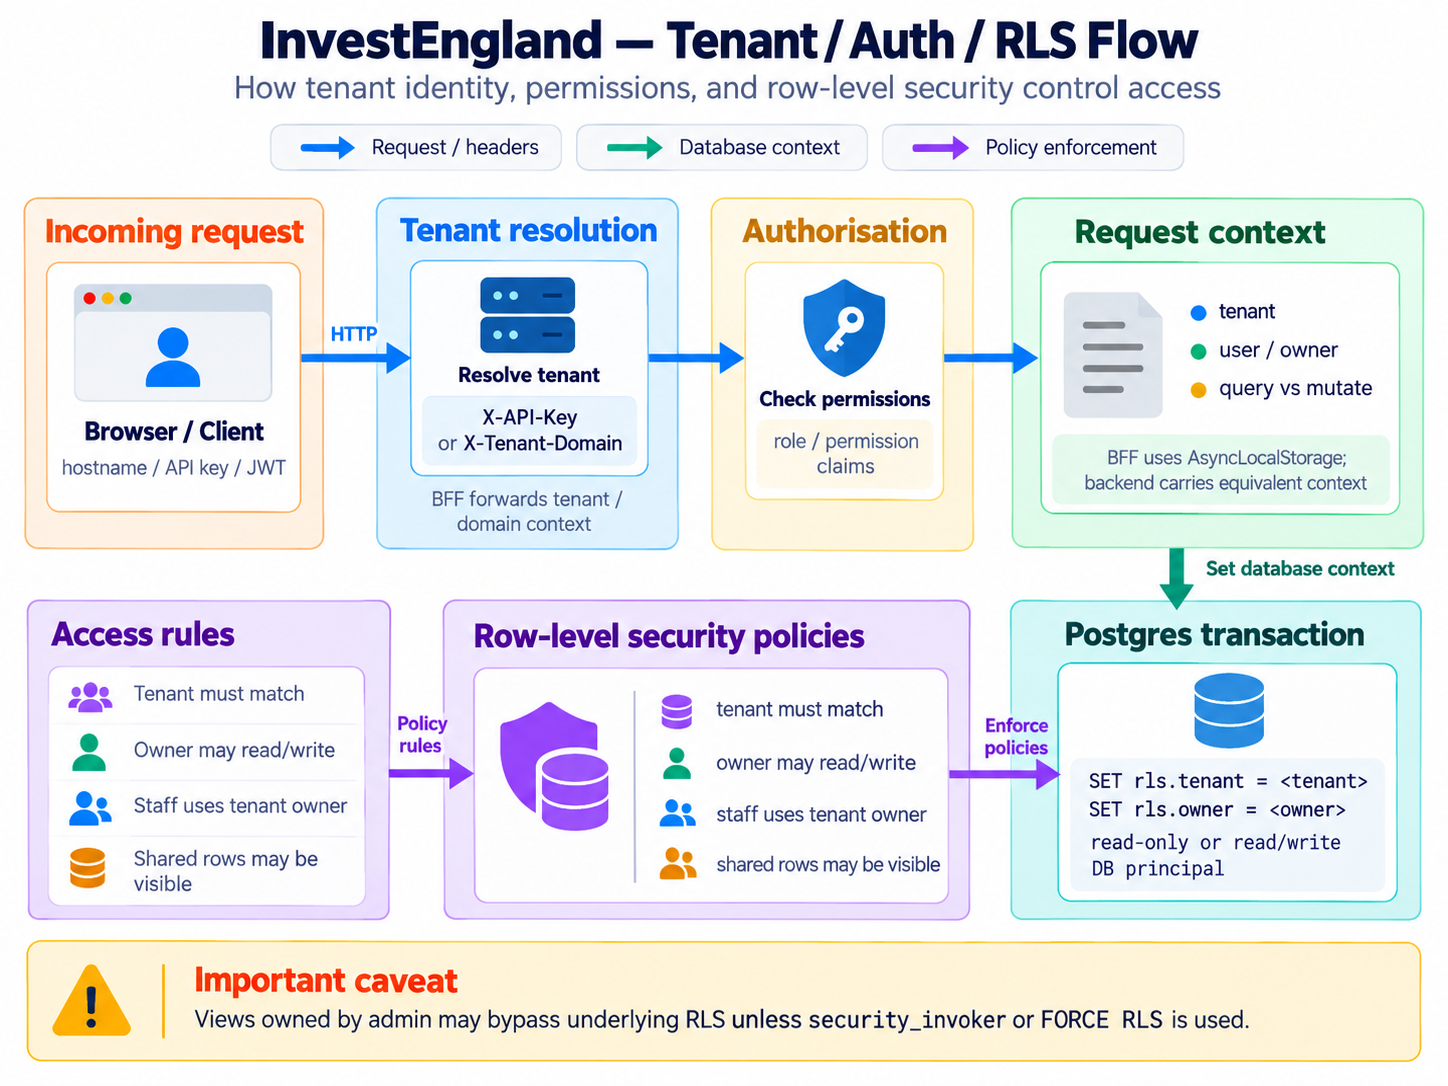
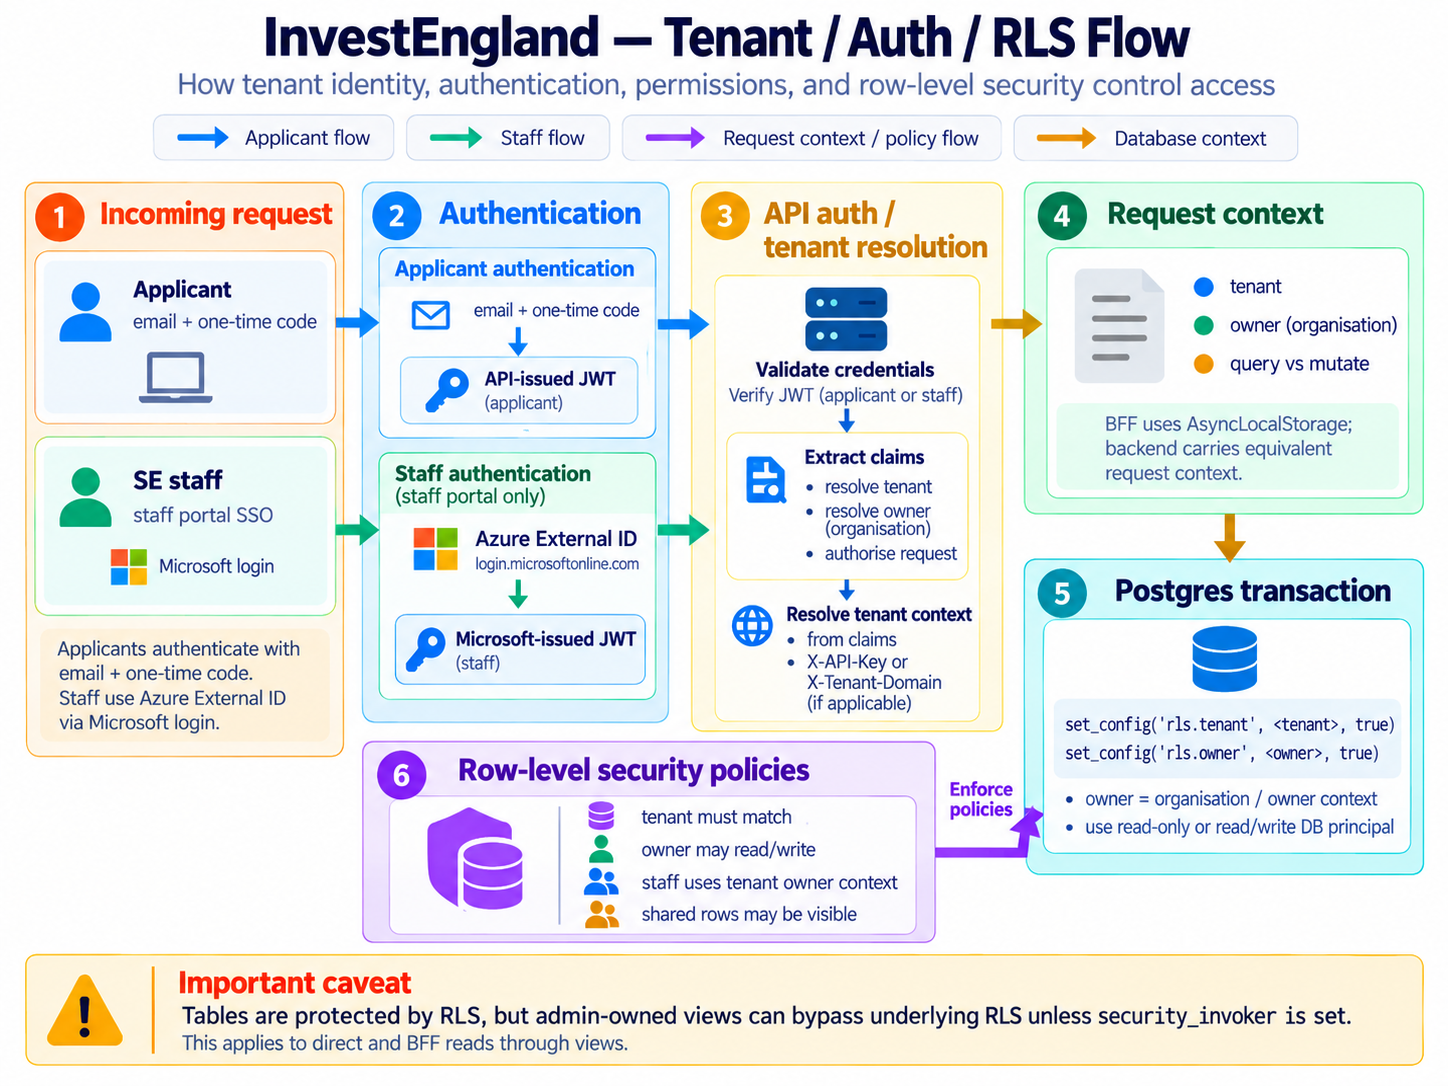
docs: corrected tenant/auth/RLS diagram; one detail still off
Second revision fixes all three errors: Keycloak replaced with the real
split (applicants email+OTP with an API-issued JWT; staff Azure External
ID on the staff portal only), rls.tenant/rls.owner correct with owner
identified as the organisation, and the F2 view-bypass caveat present.

Remaining error: it shows set_config(..., true). The code uses false
(db.ts:25-26), and the backend does not use set_config at all -- plain
SET rls.tenant (pool.py:67,69). Both are session-scoped, not
transaction-scoped. Not a defect, but the diagram claims a stronger
guarantee than the code gives, on pooled connections where the weaker
form is the one with a failure mode.

Combined diagram marked superseded, kept as the worked example of drift.

diff --git a/diagrams/README.md b/diagrams/README.md
@@ -16,7 +16,7 @@ to the code.
 | File | Covers | Status |
 |---|---|---|
 | `request-data-flow.png` | Read/write paths, async runtime, integrations, providers | **accurate** |
-| `tenant-auth-rls-flow.png` | Tenant resolution, authorisation, RLS enforcement | **accurate** |
+| `tenant-auth-rls-flow.png` | Authentication, tenant resolution, authorisation, RLS enforcement | **accurate but for one detail** — see below |
 | `combined-request-and-tenant-security.png` | Both of the above, as a single two-panel view | **top panel accurate; bottom panel has errors — see below** |
 | `architecture-summary.md` | Written analysis accompanying the diagrams | accurate as a summary of docs 00–02 |
 
@@ -38,17 +38,45 @@ matches `backend/integrations/implementations/`.
 Its callout — *"the database schema is effectively a frontend interface because
 BFF reads can bypass the API entirely"* — is a fair statement of finding **F6**.
 
-### `tenant-auth-rls-flow.png` — accurate
+### `tenant-auth-rls-flow.png` — accurate but for one detail
 
-Verified: tenant resolution by `X-API-Key` then `X-Tenant-Domain`
-(`backend/api/endpoints/auth.py:40-52`); the session variables are correctly
-named `rls.tenant` and `rls.owner`; the four access rules match
-`backend/sql/migrations/000000000000__rls.sql`; and the read-only/read-write
-principal split is real.
+This is a corrected second revision. The first attempt named Keycloak as the
+identity provider and used the wrong session-variable names; both are fixed.
 
-It also carries the right caveat: *"Views owned by admin may bypass underlying
-RLS unless security_invoker or FORCE RLS is used."* That is finding **F2**,
-which was confirmed by execution — see `verification/`.
+Verified correct: the two authentication paths — applicants use email plus a
+one-time code with an API-issued JWT, staff use **Azure External ID**
+(`login.microsoftonline.com`) and only on the staff portal
+(`foundational/sso.py:16`, `grantmakers/app/routes/sso.login.tsx:23`); tenant
+resolution by `X-API-Key` then `X-Tenant-Domain`
+(`backend/api/endpoints/auth.py:40-52`); the variables `rls.tenant` and
+`rls.owner`, with owner correctly identified as the *organisation*; the four
+access rules (`000000000000__rls.sql`); the read-only/read-write principal
+split; and the F2 caveat, confirmed by execution — see `verification/`.
+
+**The one error: `set_config(..., true)` should be `false`.** The diagram shows
+
+```
+set_config('rls.tenant', <tenant>, true)
+set_config('rls.owner',  <owner>,  true)
+```
+
+The third argument is `is_local`: `true` scopes the setting to the current
+transaction, `false` to the whole session. The code uses **`false`**
+(`frontend/foundational/.server/db.ts:25-26`).
+
+The backend does not use `set_config` at all — it issues plain
+`SET rls.tenant = '...'` (`vendor/unrest/unrest/db/pool.py:67,69`), which is
+also session-scoped, and restores the previous value when returning the
+connection to the pool.
+
+The distinction matters more than it looks. Session-scoped RLS context persists
+on a **pooled** connection after the work finishes, so correctness depends on
+every subsequent caller setting it again before querying. In the BFF that holds
+— the `sql` wrapper sets both variables at the top of every transaction — and
+the backend pool restores prior values on release. So this is not a defect, but
+the diagram asserts a stronger guarantee (transaction-scoped, self-cleaning)
+than the code provides. Worth drawing correctly precisely because the weaker
+form is the one with a failure mode.
 
 ### `combined-request-and-tenant-security.png` — bottom panel is wrong
 
@@ -99,6 +127,7 @@ the `[verified]` / `[assumed]` labelling used throughout this repository: a
 diagram cannot show its own confidence, so it reads as uniformly authoritative
 whether or not it was checked.
 
-**Recommendation:** regenerate the bottom panel with the three corrections, or
-publish `tenant-auth-rls-flow.png` on its own — it covers the same ground
-correctly.
+**Status:** superseded. `tenant-auth-rls-flow.png` is the corrected second
+revision and covers the same ground properly. This file is kept only as the
+worked example of the drift described above — it should not be used as
+reference documentation. Delete it if the illustration is not wanted.

diff --git a/README.md b/README.md
@@ -30,12 +30,17 @@ Current state: **1 Critical, 8 High, 17 Medium, 8 Low.**
 ### A note on the diagrams
 
 `diagrams/` holds architecture views produced by a model reading the reference
-docs — not the codebase. Two of the three are accurate; the third has a
-fabricated identity provider and the wrong RLS variable names, because the
-generating model filled gaps with conventional answers. Each is checked against
-the code in [`diagrams/README.md`](diagrams/README.md), and the discrepancies
-are documented rather than quietly corrected, since they show precisely where
-generated documentation drifts. Read that file before quoting a diagram.
+docs — not the codebase. Each has been checked line by line against the code,
+and the results are in [`diagrams/README.md`](diagrams/README.md). Read that
+before quoting a diagram.
+
+The first revision of the tenant/auth view invented an identity provider and
+used the wrong RLS variable names, because a model filling gaps from prose
+reaches for the conventional answer. It was regenerated once those facts were
+supplied, and is now accurate but for one detail. Both revisions are kept: the
+superseded one is the clearest illustration in this repository of where
+generated documentation drifts, and of why every claim here carries a
+`[verified]` or `[assumed]` label.
 
 ## Conventions
 
